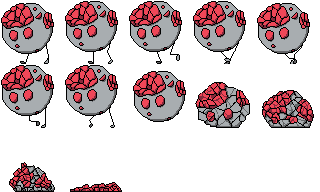
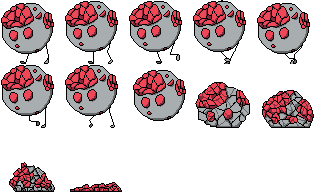
つるはし転がり敵に死亡se追加、転がるときのY座標修正

Changed region(s): [[0.4062, 0.3438, 0.5938, 0.6562]]

diff --git a/TGS2024/ReboundEnemy.cpp b/TGS2024/ReboundEnemy.cpp
@@ -57,7 +57,6 @@ void ReboundEnemy::Update()
 		{
 			enemy_state = EnemyState::ROLL;
 			enemy_img_num = 7;
-			world.y += 5.0f;
 		}
 		CheckDeathCondition();
 		break;
@@ -74,6 +73,8 @@ void ReboundEnemy::Update()
 
 	case EnemyState::DEATH:
 		gem_drop_flg = true;
+		// 死亡seの再生
+		PlayDeathSound();
 		Death();
 		DeathAnimation();
 		break;
@@ -85,10 +86,24 @@ void ReboundEnemy::Update()
 
 void ReboundEnemy::Draw() const
 {
-	// つるはしで跳ね返る敵の画像
-	DrawRotaGraph((int)location.x, (int)location.y, 1.0, angle, enemy_img[enemy_img_num], TRUE, direction);
+	switch (enemy_state)
+	{
+	case EnemyState::WALK:
+	case EnemyState::DEATH:
+		// つるはしで跳ね返る敵の画像
+		DrawRotaGraph((int)location.x, (int)location.y, 1.0, angle, enemy_img[enemy_img_num], TRUE, direction);
+		break;
 
-	DrawFormatString((int)location.x, (int)location.y, 0xffff00, "hp: %.1f", hp);
+	case EnemyState::ROLL:
+		// つるはしで跳ね返る敵の画像
+		DrawRotaGraph((int)location.x, (int)location.y + 5, 1.0, angle, enemy_img[enemy_img_num], TRUE, direction);
+		break;
+
+	default:
+		break;
+	}
+
+	//DrawFormatString((int)location.x, (int)location.y, 0xffff00, "hp: %.1f", hp);
 }
 
 void ReboundEnemy::Move()
@@ -182,7 +197,6 @@ void ReboundEnemy::CheckDeathCondition()
 	if (hp <= 0.0f)
 	{
 		enemy_state = EnemyState::DEATH;			// 死亡状態に遷移
-		world.y -= 5.0f;
 		anim_cnt = 0;
 
 		degree = 0.0;

diff --git a/TGS2024/LongLeggedEnemy.cpp b/TGS2024/LongLeggedEnemy.cpp
@@ -105,6 +105,8 @@ void LongLeggedEnemy::Update()
 		break;
 
 	case EnemyState::DEATH:
+		// 死亡seの再生
+		PlayDeathSound();
 		Death();
 		DeathAnimation();
 		break;
